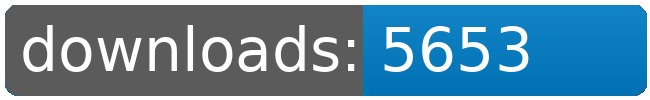
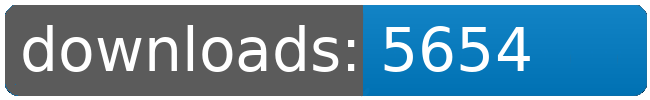
dl log written

Changed region(s): [[0.7692, 0.24, 0.8308, 0.72]]

diff --git a/README.md b/README.md
@@ -43,8 +43,8 @@
 		<td>5600</td>
 		<td>5622</td>
 		<td>5644</td>
-		<td>5653</td>
-		<td>+ 9</td>
+		<td>5654</td>
+		<td>+ 10</td>
 	</tr>
 	<tr>
 		<td>Jaws</td>
@@ -109,8 +109,8 @@
 		<td></td>
 		<td></td>
 		<td></td>
-		<td>38078</td>
-		<td>73</td>
+		<td>38079</td>
+		<td>74</td>
 	</tr>
 </table>
 </sub></sup>
@@ -135,8 +135,8 @@
 		<td>5600</td>
 		<td>5622</td>
 		<td>5644</td>
-		<td>5653</td>
-		<td>+ 9</td>
+		<td>5654</td>
+		<td>+ 10</td>
 	</tr>
 	<tr>
 		<td>Louise.Conglomerate.Shipyards</td>
@@ -223,8 +223,8 @@
 		<td></td>
 		<td></td>
 		<td></td>
-		<td>38078</td>
-		<td>73</td>
+		<td>38079</td>
+		<td>74</td>
 	</tr>
 </table>
 </sub></sup>
@@ -232,7 +232,6 @@
 <table>
 	<tr>
 		<td> </td>
-		<td>2026-03-16</td>
 		<td>2026-03-17</td>
 		<td>2026-03-18</td>
 		<td>2026-03-19</td>
@@ -241,10 +240,10 @@
 		<td>2026-03-22</td>
 		<td>2026-03-23</td>
 		<td>2026-03-24</td>
+		<td>2026-03-25</td>
 	</tr>
 	<tr>
 		<td>page views</td>
-		<td>15</td>
 		<td>1</td>
 		<td>14</td>
 		<td>28</td>
@@ -253,10 +252,10 @@
 		<td>19</td>
 		<td>15</td>
 		<td>60</td>
+		<td>6</td>
 	</tr>
 	<tr>
 		<td>unique visitors</td>
-		<td>5</td>
 		<td>1</td>
 		<td>7</td>
 		<td>8</td>
@@ -265,6 +264,7 @@
 		<td>11</td>
 		<td>7</td>
 		<td>9</td>
+		<td>5</td>
 	</tr>
 </table>
 <br>
@@ -278,8 +278,8 @@
 	</tr>
 	<tr>
 		<td>2025-10-13</td>
-		<td>3988</td>
-		<td>1189</td>
+		<td>3994</td>
+		<td>1194</td>
 		<td>169</td>
 		<td>45</td>
 	</tr>
@@ -292,8 +292,8 @@
 	</tr>
 	<tr>
 		<td>164</td>
-		<td>24.32</td>
-		<td>7.25</td>
+		<td>24.35</td>
+		<td>7.28</td>
 		<td></td>
 		<td></td>
 	</tr>
